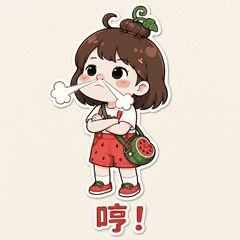
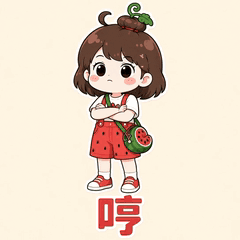
fix: revert over-exaggerated 生气/不想理你/哼, restore original 飞踢, recut 气死我了 without boomerang; skill lessons

Changed region(s): [[0.2042, 0.0, 0.7292, 0.9917]]

diff --git a/src/lib/packs.ts b/src/lib/packs.ts
@@ -239,7 +239,7 @@ export const PACKS: Pack[] = [
       { id: "glare", name: "服了", motion: "facepalm" },
       { id: "hmph", name: "哼", motion: "hmph" },
       { id: "tantrum", name: "气死我了", motion: "lying tantrum" },
-      { id: "angry", name: "气鼓鼓", motion: "angry" },
+      { id: "angry", name: "生气", motion: "angry" },
       { id: "eyeroll", name: "翻白眼", motion: "eyeroll" },
       { id: "pout", name: "不想理你", motion: "turn away" },
       { id: "flykick", name: "飞踢", motion: "flying kick pig" },
@@ -290,11 +290,11 @@ export const PACKS: Pack[] = [
 ];
 
 export function stickerGif(packId: string, stickerId: string) {
-  return `/stickers/${packId}/${stickerId}.gif?v=91`;
+  return `/stickers/${packId}/${stickerId}.gif?v=92`;
 }
 
 export function stickerPng(packId: string, stickerId: string) {
-  return `/stickers/${packId}/${stickerId}.png?v=91`;
+  return `/stickers/${packId}/${stickerId}.png?v=92`;
 }
 
 export function getPack(id: string) {

diff --git a/.grok/skills/duomei-stickers/SKILL.md b/.grok/skills/duomei-stickers/SKILL.md
@@ -22,6 +22,9 @@ user-invocable: true
 
 用户会拿去微信里发的，才算好表情包。每张先回答：**什么聊天场景会发它？笑点/情绪爆点在哪？**
 
+- **夸张要适度，可爱第一**。用户反馈：气鼓鼓整张脸涨成红气球「很丑」、哼喷一大团白气「太夸张没必要」、整体「太神经」。表情和小特效到位就行，别把人物变形成另一个东西、别让特效盖住人。
+- **意思要一眼看懂**。「服了」「不愧是你」被评「不知道何意味」：动作必须直接对应那句话在聊天里的意思。
+- **只有打击类加速**。表情类（不想理你、哼、白眼）保持正常节奏，不要做得又快又抽。
 - **夸张 > 写实**。Q 版漫画式反应：眼睛翻成全白、腮帮鼓成河豚、头顶火山喷发、眼泪喷成两道水柱、身体压扁拉长。
 - **节奏：蓄力 → 瞬间爆发 → 余韵**。禁止慢悠悠、匀速、像摆拍。爆发那一下要快（2–4 帧完成）。
 - **漫画特效**：速度线、冲击爆点、青筋井字、汗滴、蒸汽、小乌云、星星、问号。特效要跟着动作出现，不要一直挂着。
@@ -74,6 +77,7 @@ Locked camera, no zoom, no pan, no tilt. Square 1:1. Character stays full-body c
    node scripts/sticker.mjs make <video.mp4> --pack set-XX --id <id>
    ```
    自动选片段：首尾接得上就直接截（cut），接不上就正放+倒放（boomerang）。
+   **boomerang 只能用于可逆动作**（转身、点头、叉腰）。有方向性的动作（流泪、喷气、扔东西、踢飞、打滚）倒放一眼就穿帮，用户明确说「这种不能通过」—— 必须 `--mode cut`，接不上就换片段或重生成。
    **自动选的片段不一定是"有梗"的那段**（比如"不想理你"应该是转身背对，而不是转回来）。看对照图不对就手动指定：
    ```
    node scripts/sticker.mjs make <video.mp4> --pack set-XX --id <id> --mode boomerang --start 4 --len 38

diff --git a/public/downloads/duomei-stickers-SKILL.md b/public/downloads/duomei-stickers-SKILL.md
@@ -22,6 +22,9 @@ user-invocable: true
 
 用户会拿去微信里发的，才算好表情包。每张先回答：**什么聊天场景会发它？笑点/情绪爆点在哪？**
 
+- **夸张要适度，可爱第一**。用户反馈：气鼓鼓整张脸涨成红气球「很丑」、哼喷一大团白气「太夸张没必要」、整体「太神经」。表情和小特效到位就行，别把人物变形成另一个东西、别让特效盖住人。
+- **意思要一眼看懂**。「服了」「不愧是你」被评「不知道何意味」：动作必须直接对应那句话在聊天里的意思。
+- **只有打击类加速**。表情类（不想理你、哼、白眼）保持正常节奏，不要做得又快又抽。
 - **夸张 > 写实**。Q 版漫画式反应：眼睛翻成全白、腮帮鼓成河豚、头顶火山喷发、眼泪喷成两道水柱、身体压扁拉长。
 - **节奏：蓄力 → 瞬间爆发 → 余韵**。禁止慢悠悠、匀速、像摆拍。爆发那一下要快（2–4 帧完成）。
 - **漫画特效**：速度线、冲击爆点、青筋井字、汗滴、蒸汽、小乌云、星星、问号。特效要跟着动作出现，不要一直挂着。
@@ -74,6 +77,7 @@ Locked camera, no zoom, no pan, no tilt. Square 1:1. Character stays full-body c
    node scripts/sticker.mjs make <video.mp4> --pack set-XX --id <id>
    ```
    自动选片段：首尾接得上就直接截（cut），接不上就正放+倒放（boomerang）。
+   **boomerang 只能用于可逆动作**（转身、点头、叉腰）。有方向性的动作（流泪、喷气、扔东西、踢飞、打滚）倒放一眼就穿帮，用户明确说「这种不能通过」—— 必须 `--mode cut`，接不上就换片段或重生成。
    **自动选的片段不一定是"有梗"的那段**（比如"不想理你"应该是转身背对，而不是转回来）。看对照图不对就手动指定：
    ```
    node scripts/sticker.mjs make <video.mp4> --pack set-XX --id <id> --mode boomerang --start 4 --len 38
